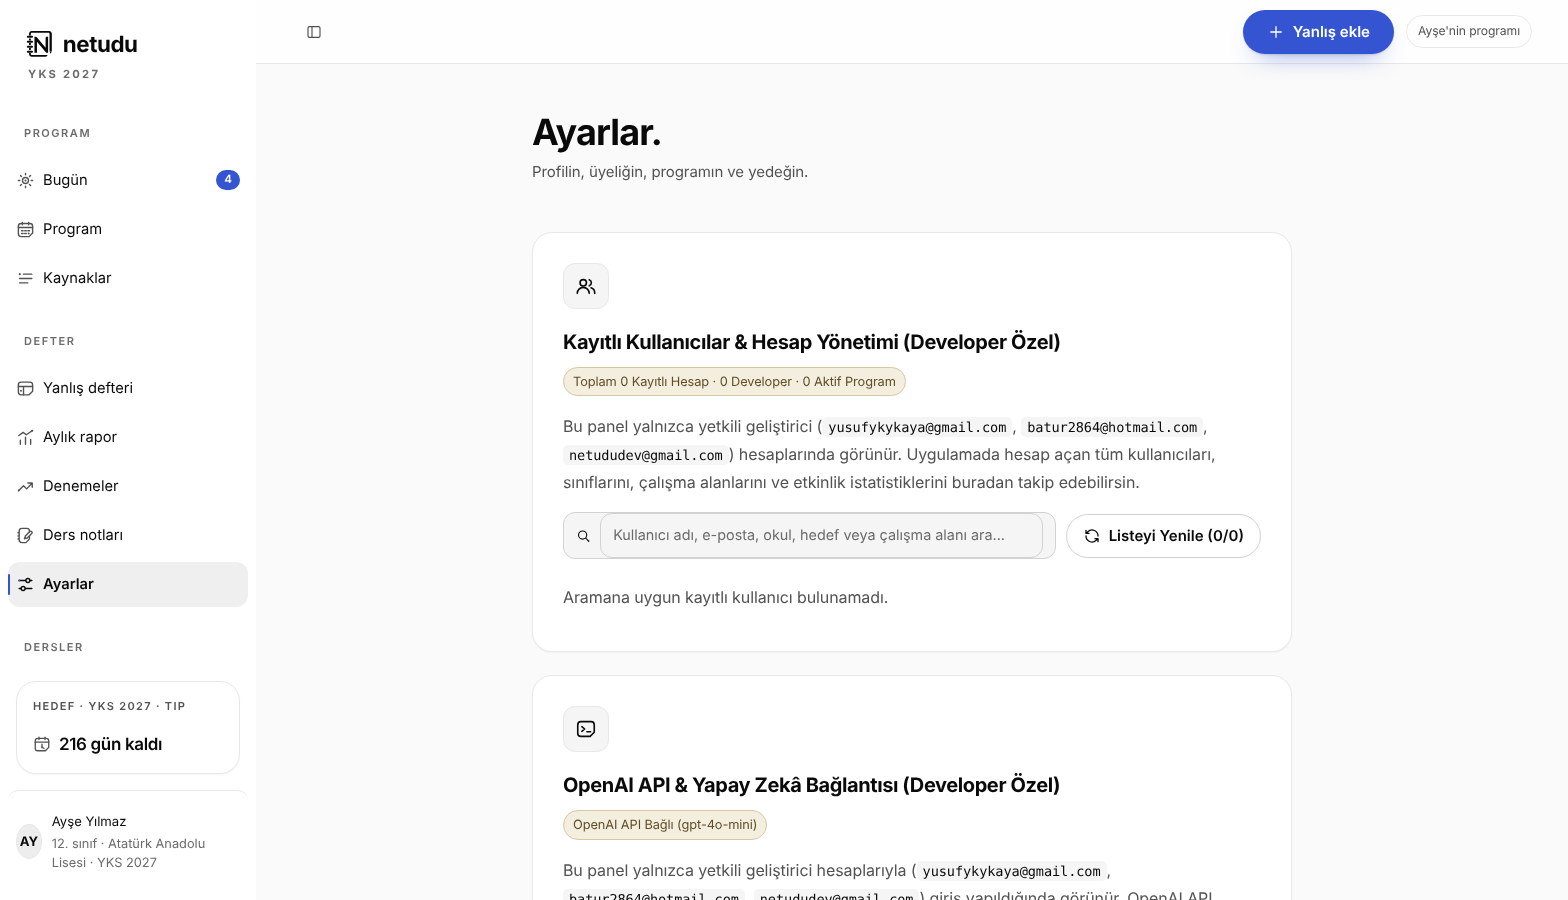
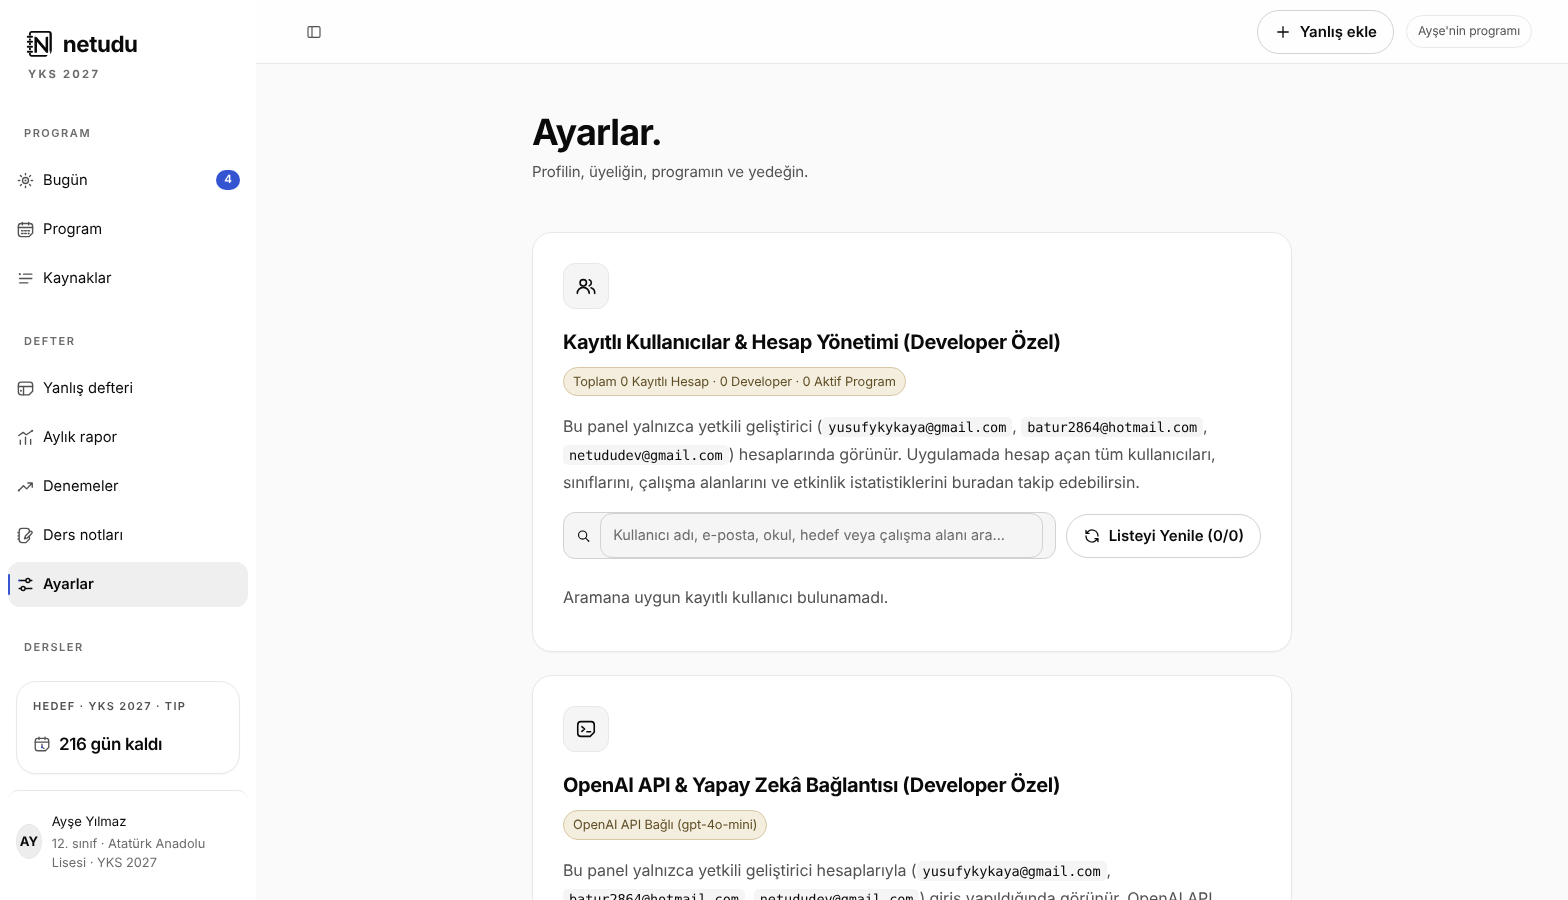
fix: inceleme 1 bulgulari (tek kobalt birincil kurali, landing baslik olcegi ve 44px hedefler, testler docs/proof baglantisiz)
Claude-Session: https://claude.ai/code/session_01LZzfsq4dMcPMMRDwuSXYis

Changed region(s): [[0.7812, 0.0, 0.9062, 0.0933]]

diff --git a/scripts/preview/shell-entry.tsx b/scripts/preview/shell-entry.tsx
@@ -2,20 +2,28 @@ import * as React from 'react';
 import {renderToStaticMarkup as R} from 'react-dom/server';
 import {Landing} from '@/app/study/landing';
 import {AppFrame} from '@/app/study/shell';
-import {OldFrame} from '@/docs/proof/feat-kabuk-ve-giris/before-frame';
 import {StudyContext} from '@/app/study/shared';
 import {TodayView} from '@/app/study/plan/today';
 import {ArchiveView} from '@/app/study/archive';
 import {NotesView} from '@/app/study/notes';
 import {SettingsView} from '@/app/study/settings';
+import {ProgramView} from '@/app/study/plan/program';
+import {ResourcesView} from '@/app/study/plan/resources';
+import {ReportView} from '@/app/study/report';
+import {ExamsView} from '@/app/study/exams';
+import {defaultPlanConfig} from '@/lib/plan/scheduler';
 import {defaultProfile,type Question} from '@/lib/study';
 
 const profile={...defaultProfile,name:'Ayşe Yılmaz',grade:'12' as const,school:'Atatürk Anadolu Lisesi',target:'Tıp',examYear:2027,examDate:'2027-06-19',motto:''};
 const sub=['Matematik','Fizik','Kimya','Biyoloji','Türk Dili ve Edebiyatı'];
 const rows:Question[]=Array.from({length:6},(_,i)=>({id:'q'+i,exam:'',exam_type:i%2?'TYT':'AYT',date:'2026-11-1'+(i+1),subject:sub[i%5],topic:['Türev','Elektrik','Mol kavramı','Hücre','Paragraf','Limit'][i],question:'Örnek soru '+(i+1),my_answer:'B',answer_key:'C',image_key:null,analysis:null,reviewed:0,created_at:'2026-11-1'+(i+1)+'T10:00:00Z',mistake_type:'yanlış',review_stage:0,next_review:'2026-11-17',review_log:[]})) as any;
 const study:any={rows,exams:[],ai:true,youtube:false,supabase:true,user:{email:'ornek@example.com',name:'Ayşe Yılmaz',developer:true},usage:null,bumpUsage(){},logout:async()=>{},plan:null,setPlan(){},openWizard(){},planOp:async()=>{},resourceOp:async()=>true,resourceBusy:{},loading:false,solving:new Set(),busy:false,setView(){},openUpload(){},select(){},solve:async()=>{},upsert(){},remove(){},setExams(){},reload:async()=>{},setSubjectFilter(){},profile,setProfile(){},examDate:profile.examDate,setExamDate(){},openNotes(){},openLessonVideo(){}};
-const body=(view:string)=>view==='home'?<TodayView/>:view==='archive'?<ArchiveView subject="Tüm dersler" setSubject={()=>{}} filteredRef={{current:[]}}/>:view==='notes'?<NotesView preset={null}/>:view==='settings'?<SettingsView/>:null;
+const body=(view:string)=>view==='home'?<TodayView/>:view==='archive'?<ArchiveView subject="Tüm dersler" setSubject={()=>{}} filteredRef={{current:[]}}/>:view==='notes'?<NotesView preset={null}/>:view==='settings'?<SettingsView/>:view==='program'?<ProgramView/>:view==='resources'?<ResourcesView/>:view==='report'?<ReportView month="2026-11" setMonth={()=>{}} notes="" setNotes={()=>{}} goals={[]} setGoals={()=>{}} onPrint={()=>{}}/>:view==='exams'?<ExamsView/>:null;
+// Plan örneği: bugünden başlayan varsayılan yapılandırma (kaynak yok)
+export const samplePlan=()=>({config:defaultPlanConfig(new Date().toISOString().slice(0,10),'12'),done:{},offDays:{}});
 const props=(view:string,o:any)=>({view,setView(){},plan:null,due:4,rows,profile,user:study.user,supabase:true,ai:true,examDays:216,error:'',load(){},onRetry(){},openUpload(){},openWizard(){},onPrint(){},print(){},setSubject(){},setWizard(){},...o});
 export const landing=()=>R(<Landing onAuth={()=>{}}/>);
-export const shell=(view:string,o:any={})=>R(<StudyContext.Provider value={{...study,...(o.study||{})}}><AppFrame {...(props(view,o) as any)}>{o.body??body(view)}</AppFrame></StudyContext.Provider>);
-export const oldShell=(view:string,o:any={})=>R(<StudyContext.Provider value={{...study,...(o.study||{})}}><OldFrame {...props(view,o)}>{o.body??body(view)}</OldFrame></StudyContext.Provider>);
+// o.withPlan: plan var; o.dev=false: geliştirici olmayan kullanıcı
+export const oldProps=(view:string,o:any={})=>{const plan=o.withPlan?samplePlan():null;const user={...study.user,developer:o.dev!==false};
+ return {study:{...study,plan,user,...(o.study||{})},props:props(view,{plan,user,...o}),body:o.body??body(view)}};
+export const shell=(view:string,o:any={})=>{const {study:st,props:pr,body:b}=oldProps(view,o);return R(<StudyContext.Provider value={st}><AppFrame {...(pr as any)}>{b}</AppFrame></StudyContext.Provider>)};

diff --git a/app/study/shell.tsx b/app/study/shell.tsx
@@ -30,7 +30,7 @@ export function AppFrame(p:FrameProps){
    {rows.length>0&&<><p className="nav-label lesson-label">DERSLER</p><SidebarMenu>{subjects.filter(s=>subjectCount(rows,s)>0).map(s=><LessonItem key={s} name={s} count={subjectCount(rows,s)} onClick={()=>goSubject(s)}/>)}{rows.some(isUnrecognized)&&<LessonItem name={PENDING_FILTER} count={rows.filter(isUnrecognized).length} onClick={()=>goSubject(PENDING_FILTER)}/>}</SidebarMenu></>}</SidebarContent>
   <SidebarFooter><div className="target-card"><span className="eyebrow">HEDEF · YKS {profile.examYear}{profile.target?` · ${profile.target}`:''}</span>{examDays>0?<strong><CalendarClock size={18} aria-hidden="true"/> {examDays} gün kaldı</strong>:<strong>{examDays===0?'Sınav günü. Başarılar.':'Sınav tarihini güncelle'}</strong>}{profile.motto&&<p>{profile.motto}</p>}</div><button className="profile" onClick={()=>setView('settings')} title="Profili düzenle"><span>{initials(profile.name||user?.name||'?')}</span><div>{profile.name||user?.name}<small>{profile.grade==='Mezun'?'Mezun':profile.grade+'. sınıf'}{profile.school?` · ${profile.school}`:''} · YKS {profile.examYear}</small></div></button></SidebarFooter></Sidebar>
   <SidebarInset><header className="topbar"><SidebarTrigger/><button type="button" className="topbar-logo" onClick={()=>setView('home')} aria-label="netudu, Bugün"><Logo size={24}/></button>
-   <div className="topbar-end"><button type="button" className={'topbar-add '+topbarAddVariant(view,!!plan)} onClick={p.openUpload}><Plus size={18} aria-hidden="true"/> Yanlış ekle</button><span className="private-label">{firstName?`${genitive(firstName)} programı`:'Programın'}</span></div></header>
+   <div className="topbar-end"><button type="button" className={'topbar-add '+topbarAddVariant(view)} onClick={p.openUpload}><Plus size={18} aria-hidden="true"/> Yanlış ekle</button><span className="private-label">{firstName?`${genitive(firstName)} programı`:'Programın'}</span></div></header>
    <main className="workspace">
     {p.error&&<div className="error-banner" role="alert"><AlertCircle size={20}/><span>{p.error}</span><button onClick={p.onRetry}>Tekrar dene</button></div>}
     <div className={'page-heading'+(view==='home'?' compact':'')}>{view!=='home'&&<div><h1>{head.title}</h1><p>{head.description}</p></div>}<div className="actions">{actions.includes('print')&&<button className="secondary" onClick={p.onPrint}><Printer size={17}/> Yazdır / PDF</button>}{actions.includes('edit-plan')&&<button className="secondary ghost" onClick={p.openWizard}><Wand2 size={17}/> Programı düzenle</button>}</div></div>

diff --git a/lib/shell.ts b/lib/shell.ts
@@ -20,10 +20,7 @@ export const headings:Record<View,{title:string;description:string}>={
  settings:{title:'Ayarlar.',description:'Profilin, üyeliğin, programın ve yedeğin.'},
 };
 
-// Kenar çubuğu gezinme etiketleri; "Programı oluştur" gezinme değil eylemdir (Bugün boş durumunda)
-export function sidebarNavLabels(_hasPlan:boolean):string[]{return [...planNavEntries,...bookNavEntries,settingsEntry].map(e=>e.label)}
-
-export type PageAction='print'|'edit-plan'|'add-wrong';
+export type PageAction='print'|'edit-plan';
 // "Yanlış ekle" tek yerde durur: üst çubuk. Burada yalnız ikincil eylemler kalır.
 export function pageActions(view:View,{plan}:{plan:boolean}):PageAction[]{
  const out:PageAction[]=[];
@@ -32,11 +29,8 @@ export function pageActions(view:View,{plan}:{plan:boolean}):PageAction[]{
  return out;
 }
 
-// Ekran başına tek birincil: ekranın kendi birincil eylemi varsa (program yokken Bugün/Kaynaklar'daki "Programı oluştur", Notlar'daki "Notu hazırla")
-// üst çubuktaki "Yanlış ekle" ikincil çizilir; diğer ekranlarda üst çubuk birincilin tek yeridir.
-export function topbarAddVariant(view:View,hasPlan:boolean):'primary'|'secondary'{return (!hasPlan&&(view==='home'||view==='resources'))||view==='notes'?'secondary':'primary'}
+// Ekran başına tek kobalt: Bugün (Tamamla / Programı oluştur), Program, Kaynaklar, Aylık rapor, Denemeler, Notlar ve Ayarlar'ın kendi birincili var;
+// üst çubuktaki "Yanlış ekle" yalnız Defter'de (kendi birincili olmayan tek ekran) birincil çizilir.
+export function topbarAddVariant(view:View):'primary'|'secondary'{return view==='archive'?'primary':'secondary'}
 
 export function contentWidth(view:View):'wide'|'reading'{return view==='settings'?'reading':'wide'}
-
-export type MobileBarItem={id:'home'|'program'|'add'|'archive'|'more';label:string};
-export const mobileBarItems:MobileBarItem[]=[{id:'home',label:'Bugün'},{id:'program',label:'Program'},{id:'add',label:'Yanlış ekle'},{id:'archive',label:'Defter'},{id:'more',label:'Daha fazla'}];

diff --git a/app/styles/80-kabuk-giris.css b/app/styles/80-kabuk-giris.css
@@ -16,7 +16,7 @@
 /* İçerik genişliği: kap 1120px ortalı; Ayarlar 760px okuma sütunu (başlıkla birlikte); Notlar iki sütunlu olduğu için geniş */
 .workspace{width:100%;max-width:1120px;margin-inline:auto}
 .view[data-width=reading]{max-width:760px;margin-inline:auto}
-.workspace:has(.view[data-width=reading]) .page-heading{max-width:760px;margin-inline:auto}
+.workspace:has(.view[data-width=reading]) :is(.page-heading,.error-banner){max-width:760px;margin-inline:auto}
 /* Kenar çubuğu alt bloğu: hedef kartı ile kullanıcı satırı arası tam 16px */
 .app-sidebar [data-slot=sidebar-footer]{gap:0}
 .app-sidebar .target-card{margin-bottom:var(--s4)}
@@ -26,6 +26,9 @@
 .lp-btn.ink:active{transform:scale(.97)}
 .lp-plan::after{content:none;animation:none}
 .lp-hero{grid-template-columns:minmax(0,560px) minmax(0,1fr)}
-.lp-hero h1{font-size:4.25rem;line-height:1.02}
+.lp-hero h1{line-height:1.02}
 @media(max-width:900px){.lp-hero{grid-template-columns:minmax(0,1fr)}.lp-visual{min-height:480px}}
-@media(max-width:520px){.lp-hero h1{font-size:2.5rem}.lp-cta .lp-btn,.lp-cta .lp-quiet{width:100%;justify-content:center}}
+@media(max-width:520px){.lp-cta .lp-btn,.lp-cta .lp-quiet{width:100%;justify-content:center}}
+/* Giriş sayfası üst çubuğu: dokunma hedefleri en az 44px */
+.lp-link,.lp-nav nav a,.lp-logo{min-height:var(--h-btn);display:inline-flex;align-items:center}
+.lp-link{white-space:nowrap}

diff --git a/scripts/preview/ui-stubs.tsx b/scripts/preview/ui-stubs.tsx
@@ -20,3 +20,6 @@ export const SidebarMenuItem=({children}:any)=><li data-slot="sidebar-menu-item"
 export const SidebarMenuButton=({children,isActive,onClick}:any)=><button data-slot="sidebar-menu-button" data-active={isActive?'true':'false'} onClick={onClick} style={{display:'flex',alignItems:'center',gap:8,width:'100%',padding:'8px',textAlign:'left'}}>{children}</button>;
 export const SidebarInset=({children}:any)=><div data-slot="sidebar-inset" className="sb-inset">{children}</div>;
 export const SidebarTrigger=()=><button data-slot="sidebar-trigger" className="sb-trigger" aria-label="Kenar çubuğunu aç" style={{display:'inline-grid',placeItems:'center'}}><svg width="16" height="16" viewBox="0 0 24 24" fill="none" stroke="currentColor" strokeWidth="1.75" aria-hidden="true"><rect x="3" y="4" width="18" height="16" rx="2"/><path d="M9 4v16"/></svg></button>;
+// recharts düz karşılıkları (grafik çizilmez; yalnız yerleşim kutusu)
+export const ResponsiveContainer=({children,height}:any)=><div className="chart-stub" style={{width:'100%',height:height||240}}>{children}</div>;
+export const LineChart=()=>null,BarChart=()=>null,Line=()=>null,Bar=()=>null,XAxis=()=>null,YAxis=()=>null,Tooltip=()=>null,CartesianGrid=()=>null;

diff --git a/scripts/preview/shell-entry-onceki.tsx b/scripts/preview/shell-entry-onceki.tsx
@@ -1,0 +1,9 @@
+// MODE=onceki girişi: yeni kabuk girişine ek olarak taban kabuğunun kopyası (docs/proof altındaki before-frame.tsx).
+// Test paketi bu dosyayı içe aktarmaz; yalnız scripts/shell-preview.mjs MODE=onceki iken kullanır.
+import * as React from 'react';
+import {renderToStaticMarkup as R} from 'react-dom/server';
+import {OldFrame} from '@/docs/proof/feat-kabuk-ve-giris/before-frame';
+import {StudyContext} from '@/app/study/shared';
+export * from './shell-entry';
+import {oldProps} from './shell-entry';
+export const oldShell=(view:string,o:any={})=>{const {study,props,body}=oldProps(view,o);return R(<StudyContext.Provider value={study}><OldFrame {...props}>{body}</OldFrame></StudyContext.Provider>)};

diff --git a/docs/proof/feat-kabuk-ve-giris/PROOF.md b/docs/proof/feat-kabuk-ve-giris/PROOF.md
@@ -6,7 +6,7 @@
 
 ## İddia
 - [x] Üst çubukta kırıntı ve sayfa başlığında büyük harfli eyebrow yok; yalnız h1 + tek satır açıklama.
-- [x] `.workspace` masaüstünde 1120px ortalı; Ayarlar `.view` düzeyinde 760px (başlıkla birlikte); Notlar iki sütunlu olduğu için geniş (1024 içerik); 1568px'te yan boşluklar eşit (96/96).
+- [x] `.workspace` masaüstünde kap 1120, içerik 1024 (iç boşluk 48+48), ortalı; Ayarlar `.view` düzeyinde 760px (başlıkla birlikte); Notlar iki sütunlu olduğu için geniş (1024 içerik); 1568px'te yan boşluklar eşit (96/96).
 - [x] "Programı oluştur" kenar çubuğu gezinmesinde yok; program yokken Bugün boş durumunda birincil olarak zaten var.
 - [x] Üst çubuk sağı: tek "Yanlış ekle" (Plus) + kullanıcı etiketi; Supabase/OpenAI durum düğmeleri kaldırıldı (Ayarlar > Geliştirici'de zaten var); başlık eylem alanında "Yanlış ekle" yok, "Programı düzenle" hayalet.
 - [x] Hedef kartı ile kullanıcı satırı arası 16px; tetikleyici 44px.
@@ -27,7 +27,7 @@ Komut: `ND_ROOT=$PWD MODE=onceki|sonraki PLAYWRIGHT_BROWSERS_PATH=/opt/pw-browse
 | Madde | Sonuç |
 |---|---|
 | 1 Başlık tekrarı | VARDI: önce `crumb=true`, `.page-heading .eyebrow=true` (defter 1440 ölçümü); sonra ikisi de yok. Mobilde de kırıntı yok. |
-| 2 Genişlik | VARDI: kap 1280px ve sola yaslı (1568'de 16px/16px boşluk, içerik 1184); Notlar/Ayarlar da 1184. Sonra 1120 ortalı (96/96), Ayarlar view 760, Notlar geniş (koordinatör kararı). |
+| 2 Genişlik | VARDI: kap 1280px ve sola yaslı (1568'de 16px/16px boşluk, içerik 1184); Notlar/Ayarlar da 1184. Sonra kap 1120 / içerik 1024 ortalı (96/96), Ayarlar view 760, Notlar geniş (koordinatör kararı). |
 | 3 "Programı oluştur" nav | VARDI (`navHasCreate=true`); kaldırıldı. Bugün boş durumunda (`PlanStart`) birincil buton zaten vardı, dokunulmadı. |
 | 4 Durum düğmeleri | VARDI (`statusBtns=2`); kaldırıldı. Ayarlar > Geliştirici'de OpenAI (settings.tsx:253) ve Supabase (280) durumları zaten var, dokunulmadı. Başlıktaki "Yanlış ekle" (Bugün'de ikincil, diğerlerinde birincil) kaldırıldı. |
 | 5 Boşluk | VARDI: 20px (12 kenar boşluğu + 8 kaptan gap); sonra 16px (ölçüm: `targetToProfileGap`). Önizlemede kenar çubuğu çerçevesi tailwind'siz taklit; gerçek `gap-2` unlayered `gap:0` kuralıyla ezilir. |
@@ -39,6 +39,39 @@ Komut: `ND_ROOT=$PWD MODE=onceki|sonraki PLAYWRIGHT_BROWSERS_PATH=/opt/pw-browse
 |---|---|---|---|---|
 | `ND_ZOD_PATH=/opt/npm-tools/node_modules/zod/index.js npm test` | tüm testler yeşil | tests 41, pass 41, fail 0, skipped 0 | 0 | PASS |
 | `scripts/shell-preview.mjs` ölçümü (1440/390/1568) | sw==cw (yatay kaydırma yok), tetikleyici 44, boşluk 16, FAB 56, üstte tek kobalt | tümü `olcum-sonraki.json`'da; kobalt: masaüstü 1, mobil Bugün-boş 2 (birincil + FAB, bkz. kapsam dışı) | 0 | PASS (not var) |
+
+## Tur 2 (inceleme SKOR 3 bulguları)
+- [ ] Ekran başına en fazla bir kobalt birincil (üst çubuk "Yanlış ekle" yalnız Defter'de birincil).
+- [ ] Landing h1 clamp korunuyor; 520/521px sıçraması yok; üst çubuk hedefleri 44px.
+- [ ] Render testi esbuild/react yoksa BAŞARISIZ; test paketi docs/proof'a bağımlı değil.
+
+**Karar/kod:** `topbarAddVariant(view)`: yalnız `archive` -> primary, diğer tüm ekranlar secondary (Bugün'ün plan varken "Tamamla" ve plan yokken "Programı oluştur" birincili var, bu yüzden Bugün de ikincil). Kullanılmayan `sidebarNavLabels`, `'add-wrong'`, `mobileBarItems` silindi, totolojik testler düzeltildi. Ayarlar'da `.error-banner` 760px kuralına eklendi.
+
+**Kobalt dolgu buton (#3454D1) sayımı, 1440x900 ilk ekran, geliştirici OLMAYAN kullanıcı** (`TABLE=1 node scripts/shell-preview.mjs`, `olcum-tablo.json`; Defter/Bugün/Notlar/Ayarlar/Program/Kaynaklar gerçek bileşen SSR çıktısı, recharts düz karşılık, örnek veri):
+| Ekran | Plan yok | Plan var |
+|---|---|---|
+| Bugün | 1 (Programı oluştur) | 1 (Tamamla) |
+| Program | 1 (Programı oluştur) | 5 (seçili "1. hafta" çipi + 4 "Tamamla"; bu tur öncesinden var, kapsam dışı) |
+| Kaynaklar | 1 (Programı oluştur) | 1 (Soru bankası ekle; kaynak eklendikçe kaynak kartı birincilleri artar, koddan: resources.tsx:33) |
+| Defter | 1 (Yanlış ekle) | 1 (Yanlış ekle) |
+| Aylık rapor | 0 ilk ekranda | 0 ilk ekranda; "Notları hazırla" (report.tsx:22) katlamanın altında, koddan: 1 |
+| Denemeler | 0 ilk ekranda | 0 ilk ekranda; `primary full` (exams.tsx:22) katlamanın altında, koddan: 1 |
+| Ders notları | 1 (Notu hazırla) | 1 (Notu hazırla) |
+| Ayarlar | 1 (Programı oluştur) | 1 (Programı düzenle); Kaydet vb. katlamanın altında, koddan: birden çok (Kaydet, OpenAI/Supabase; geliştirici bölümleri) |
+Sonuç: üst çubuk "Yanlış ekle" artık hiçbir ekranda ikinci kobalt eklemiyor. İlk ekranda tek sapma Program + plan var (5, Tamamla düğmeleri; bu PR dışı, açık soru). Mobil "+" FAB değişmedi (koordinatör kararı).
+
+**Landing h1 (önizleme, `olcum-tablo.json`)**: clamp(2.5rem,5.2vw,4.25rem) geri geldi; `.lp-hero h1{font-size:4.25rem}` ve 520px kuralı silindi.
+| Genişlik | 320 | 390 | 520 | 521 | 600 | 768 | 900 | 1024 | 1440 |
+|---|---|---|---|---|---|---|---|---|---|
+| Boyut (px) | 40 | 40 | 40 | 40 | 40 | 40 | 46,8 | 53,2 | 68 |
+| Satır | 3 | 3 | 2 | 2 | 2 | 2 | 2 | 2 | 3 |
+Yatay kaydırma yok (sw==cw hepsinde). Not: 50-v10-v11.css:355'teki `max-width:360px -> 2.25rem` kuralı 70-v13.css'teki clamp tarafından zaten (bu PR'dan önce) eziliyordu; 320'de 40px kalır, dokunulmadı.
+
+**Landing dokunma hedefleri**: `.lp-link`, `.lp-nav nav a`, `.lp-logo` `min-height:var(--h-btn);display:inline-flex;align-items:center` (+ `.lp-link{white-space:nowrap}`: önizlemede 320 ve 768'de "Giriş yap" iki satıra sarılıp 63-66px oluyordu). Ölçüm: tüm genişliklerde link 44, nav a 44, logo 44.
+
+**Test/araç**: `tests/shell-render.test.mjs` esbuild/react-dom bulunamazsa açık hata mesajıyla (aranan yollar listesiyle) BAŞARISIZ olur; NODE_PATH, /opt/npm-tools, kök ve üst dizinlerin node_modules'u aranır (olmayan yolla denendi: 7 fail). Test girişi `scripts/preview/shell-entry.tsx` docs/proof'u içe aktarmaz; OldFrame yalnız `shell-entry-onceki.tsx` (MODE=onceki) içinde. Test paketi `ND_ZOD_PATH=... npm test`: 43/43, çıkış 0 (önce: yeni varyant testi kırmızıydı, 39/40).
+
+**Ölü CSS**: `.crumb`, `.crumb-root`, `.topbar b`, `.topbar-end .status`, `.page-heading .eyebrow`, `.page-heading .actions .primary` SİLİNMEDİ. Gerekçe: kurallar 00/20/50 dosyalarında virgülle gruplanmış, tek satırlık minify seçici listelerinin içinde (örn. `.crumb-root,.private-label{...}`, `.topbar b,.topbar .crumb b{...}`); ayıklamak komşu canlı seçicileri riske atar ve kapsam dışı yeniden yazım gerektirir. app/ ve components/ içinde `crumb` kullanımı yalnız shadcn `breadcrumb.tsx`'te (ilgisiz). Ayrı temizlik PR'ı önerilir.
 
 ## Orkestratör doğrulaması
 
